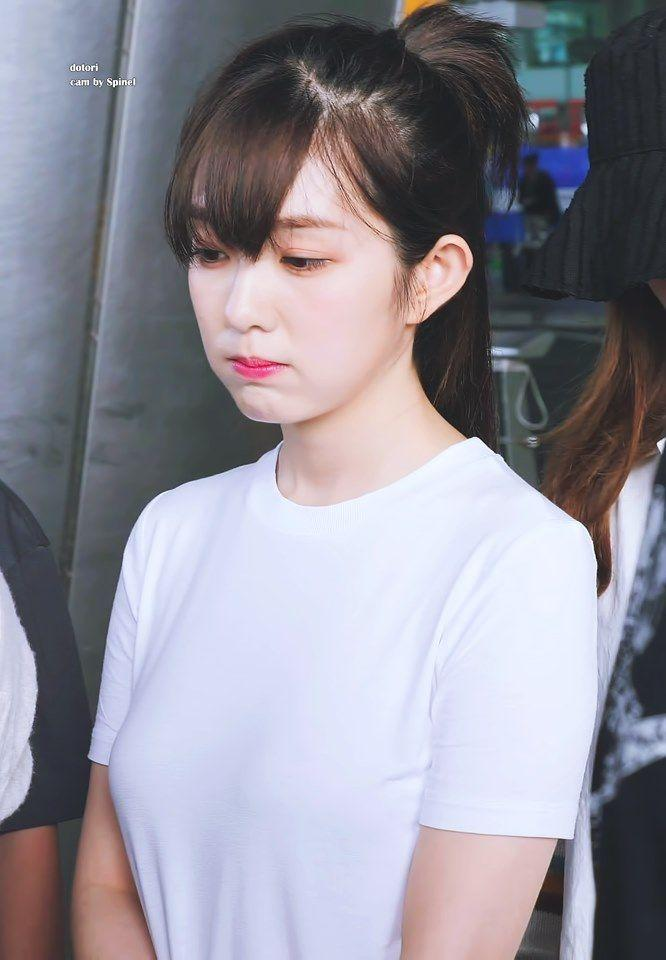
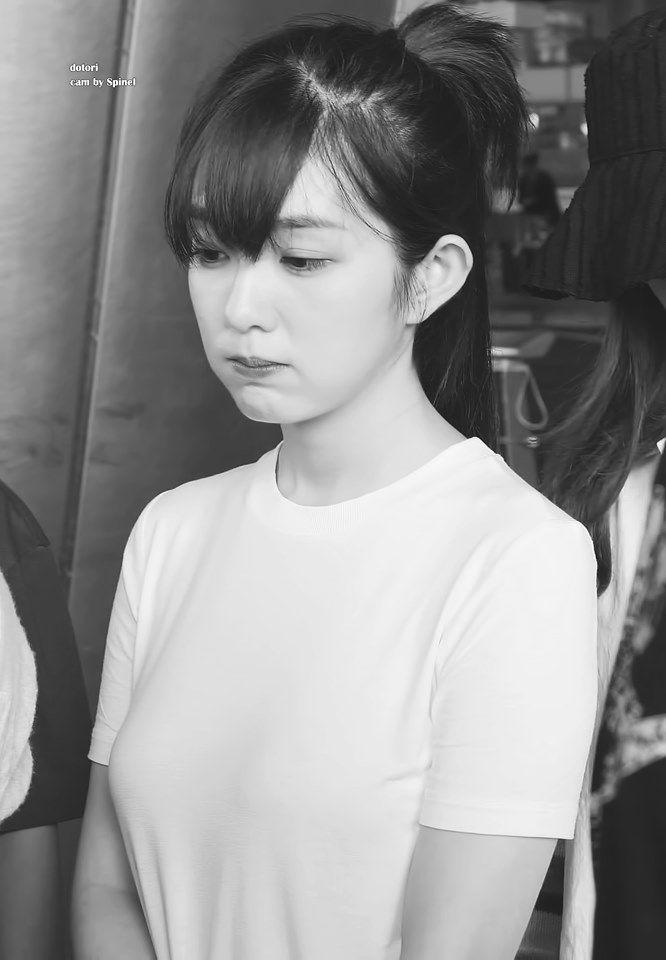
pillow

diff --git a/32_PillowTest.py b/32_PillowTest.py
@@ -1,0 +1,75 @@
+from PIL import  Image
+import matplotlib.pyplot as plt
+import numpy as np
+
+#read image
+#img = Image.open("Irene.jpg").convert("L")
+#print(img.format,img.size,img.mode)
+#img.show()
+
+
+#mix RGB
+#r,g,b = img.split()
+#img = Image.merge("RGB",(g,b,r))
+
+#Color transforms
+
+img1 = Image.open("Irene.jpg").convert("1")
+img2 = Image.open("Irene.jpg").convert("L")
+img3 = Image.open("Irene.jpg").convert("P")
+img4 = Image.open("Irene.jpg").convert("RGB")
+img5 = Image.open("Irene.jpg").convert("RGBA")
+img6 = Image.open("Irene.jpg").convert("CMYK")
+img7 = Image.open("Irene.jpg").convert("YCbCr")
+img8 = Image.open("Irene.jpg").convert("LA")
+img9 = Image.open("Irene.jpg").convert("HSV")
+img10 = Image.open("Irene.jpg").convert("I")
+img11 = Image.open("Irene.jpg").convert("F")
+
+plt.figure(figsize=(10,10))
+
+plt.subplot(3,4,1)
+plt.imshow(img1)
+plt.title("1")
+
+plt.subplot(3,4,2)
+plt.imshow(img2)
+plt.title("L")
+
+plt.subplot(3,4,3)
+plt.imshow(img3)
+plt.title("P")
+
+plt.subplot(3,4,4)
+plt.imshow(img4)
+plt.title("RGB")
+
+plt.subplot(3,4,5)
+plt.imshow(img5)
+plt.title("RGBA")
+
+plt.subplot(3,4,6)
+plt.imshow(img6)
+plt.title("CMYK")
+
+plt.subplot(3,4,7)
+plt.imshow(img7)
+plt.title("YCbCr")
+
+plt.subplot(3,4,8)
+plt.imshow(img8)
+plt.title("LA")
+
+plt.subplot(3,4,9)
+plt.imshow(img9)
+plt.title("HSV")
+
+plt.subplot(3,4,10)
+plt.imshow(img10)
+plt.title("I")
+
+plt.subplot(3,4,11)
+plt.imshow(img11)
+plt.title("F")
+
+plt.show()

diff --git a/33_iMagePIL.py b/33_iMagePIL.py
@@ -3,13 +3,13 @@ import matplotlib.pyplot as plt
 import numpy as np
 
 #read image
-image1 = Image.open("Irene.jpg")
+image1 = Image.open("Irene.jpg").convert("L")
 image2 = Image.open("Seulki.jpg")
 
 #display image
 plt.imshow(image1)
 plt.imshow(image2)
-#image1.show()
+image1.show()
 #image2.show()
 
 #show image properties
@@ -70,7 +70,7 @@ plt.subplot(2,3,6)
 plt.imshow(transposed_im6)
 plt.title("Transpose")
 
-plt.show()
+#plt.show()
 
 #rotating
 plt.figure(3)
